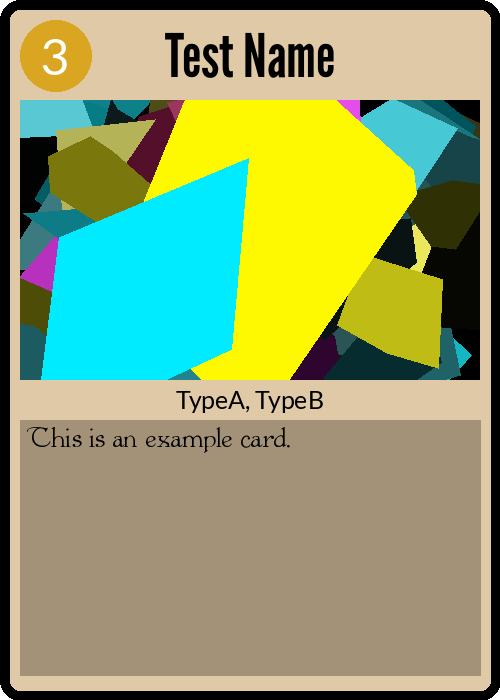
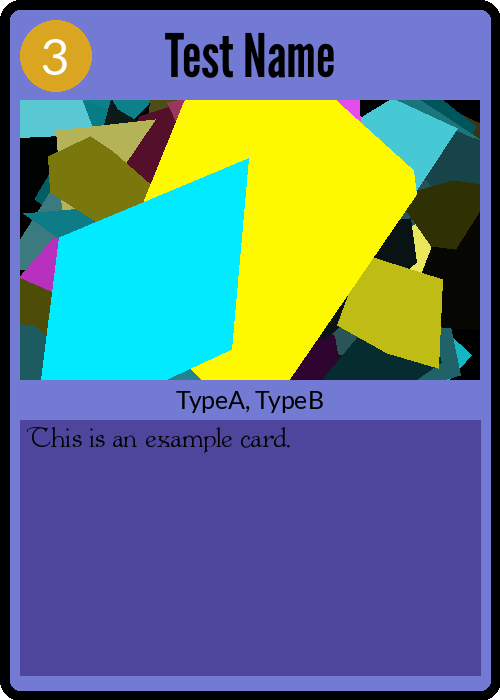
Add card type colors

diff --git a/generate_cards.py b/generate_cards.py
@@ -44,16 +44,21 @@ CARD_PADDING = int(CARD_PADDING_INCH * PIXELS_PER_INCH)
 BLACK = (0,0,0)
 WHITE = (255,255,255)
 RED = (255, 0, 0)
+LIGHT_RED = (250, 132, 144)
+DARK_RED = (156, 70, 70)
 GREEN = (0, 255, 0)
 BLUE = (0, 0, 255)
+LIGHT_BLUE = (114, 122, 212)
+DARK_BLUE = (77, 70, 156)
 GOLD = (218,165,32)
 BEIGE = (224, 201, 166)
 DARK_BEIGE = (163, 146, 119)
 
+
 # Background parameters
-SPELL_BACKGROUND_COLOR = BEIGE
+SPELL_BACKGROUND_COLOR = LIGHT_BLUE
 HOLDING_BACKGROUND_COLOR = BEIGE
-UNIT_BACKGROUND_COLOR = BEIGE
+UNIT_BACKGROUND_COLOR = LIGHT_RED
 
 # Border parameters
 BORDER_COLOR = BLACK
@@ -122,7 +127,6 @@ BODY_TEXT_BG_BB = [
   BODY_TEXT_BG_BOTTOM,
 ]
 BODY_TEXT_COLOR = BLACK
-BODY_TEXT_BG_COLOR = DARK_BEIGE
 # Estimate text size of body text
 BODY_TEXT_WIDTH = CONTENT_WIDTH - CARD_PADDING
 BODY_TEXT_HEIGHT = BODY_TEXT_BG_BOTTOM - BODY_TEXT_BG_TOP - CARD_PADDING
@@ -131,7 +135,9 @@ BODY_TEXT_COORD = (int(CARD_MARGIN + CARD_PADDING * 3 / 2),
 BODY_TEXT_ANCHOR = "la" # top left
 # Number of pixels between lines.
 BODY_TEXT_SPACING = 10
-
+BODY_TEXT_BG_COLOR_SPELL = DARK_BLUE
+BODY_TEXT_BG_COLOR_HOLDING = DARK_BEIGE
+BODY_TEXT_BG_COLOR_UNIT= DARK_RED
 
 
 def wrap_body_text(body_text:str)->str:
@@ -147,10 +153,14 @@ def wrap_body_text(body_text:str)->str:
   lines.append(" ".join(working_text))
   return "\n".join(lines)
 
+class CardType(enum.Enum):
+  SPELL = "Spell"
+  HOLDING = "Holding"
+  UNIT = "Unit"
 
 @dataclasses.dataclass
 class CardDesc:
-  card_type:str
+  card_type:CardType
   title: str
   cost: int
   attributes: List[str]
@@ -162,20 +172,6 @@ class CardDesc:
             f"{self.flavor_text}")
     return hashlib.md5(text.encode("utf-8")).hexdigest()
 
-class CardType(enum.Enum):
-  SPELL = "Spell"
-  HOLDING = "Holding"
-  UNIT = "Unit"
-
-  def validate(s:str):
-    if s == CardType.SPELL:
-      return s
-    if s == CardType.HOLDING:
-      return s
-    if s == CardType.UNIT:
-      return s
-    raise ValueError(f"Not a CardType: {s}")
-
 
 EXPECTED_CSV_HEADER = set([
   "Card Type",
@@ -185,6 +181,23 @@ EXPECTED_CSV_HEADER = set([
   "Body Text",
   "Flavor Text",
 ])
+
+def get_background_color(desc:CardDesc):
+  if desc.card_type == CardType.SPELL:
+    return SPELL_BACKGROUND_COLOR
+  if desc.card_type == CardType.HOLDING:
+    return HOLDING_BACKGROUND_COLOR
+  if desc.card_type == CardType.UNIT:
+    return UNIT_BACKGROUND_COLOR
+
+def get_body_text_background_color(desc:CardDesc):
+  if desc.card_type == CardType.SPELL:
+    return BODY_TEXT_BG_COLOR_SPELL
+  if desc.card_type == CardType.HOLDING:
+    return BODY_TEXT_BG_COLOR_HOLDING
+  if desc.card_type == CardType.UNIT:
+    return BODY_TEXT_BG_COLOR_UNIT
+
 
 
 def rand_shape(x_offset: float, y_offset: float, scale:float)->List[int]:
@@ -270,13 +283,6 @@ def generate_card_art(desc:CardDesc)->Image:
 
   return img
 
-def get_background_color(desc:CardDesc):
-  if desc.card_type == CardType.SPELL:
-    return SPELL_BACKGROUND_COLOR
-  if desc.card_type == CardType.HOLDING:
-    return HOLDING_BACKGROUND_COLOR
-  if desc.card_type == CardType.UNIT:
-    return UNIT_BACKGROUND_COLOR
 
 def generate_card(desc:CardDesc, output_path:pathlib.Path):
   assert not output_path.exists(), f"{output_path} already exists"
@@ -328,7 +334,7 @@ def generate_card(desc:CardDesc, output_path:pathlib.Path):
   # Body text
   draw.rectangle(
     BODY_TEXT_BG_BB,
-    fill=BODY_TEXT_BG_COLOR)
+    fill=get_body_text_background_color(desc))
 
   draw.multiline_text(
     BODY_TEXT_COORD,
@@ -348,7 +354,7 @@ def generate_card(desc:CardDesc, output_path:pathlib.Path):
 def to_card_desc(attr:Dict[str, Any]):
   assert set(attr.keys()) == EXPECTED_CSV_HEADER, f"{set(attr.keys())}"
   return CardDesc(
-    card_type=attr["Card Type"],
+    card_type=CardType(attr["Card Type"]),
     title=attr["Title"],
     cost=int(attr["Cost"]),
     attributes=list(attr["Attributes"].split(",")),
